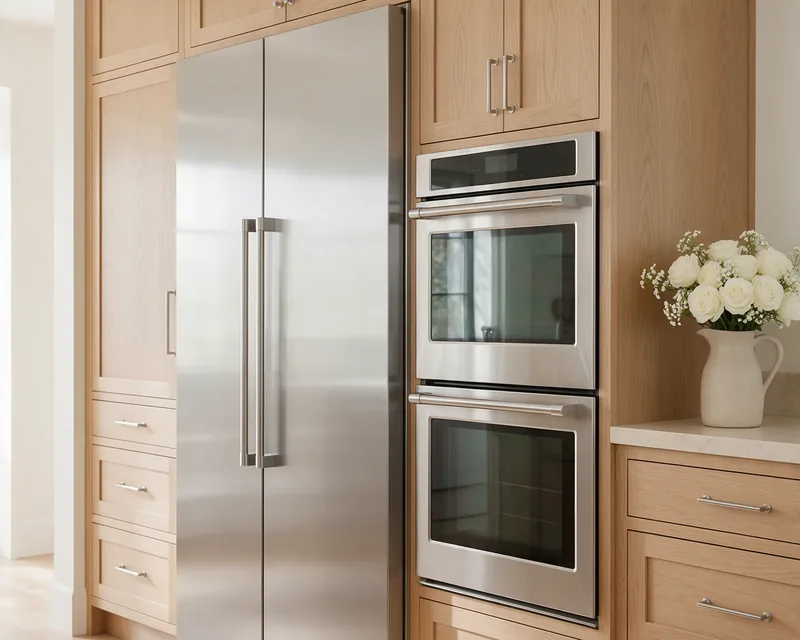
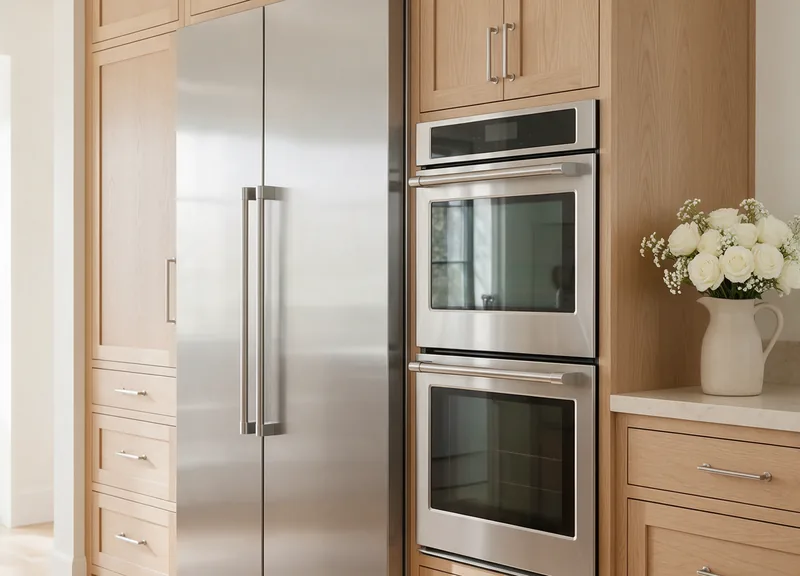
Home tiles: 25:18 photos, 10% shorter again

diff --git a/vibes/soul/sections/category-carousel/index.tsx b/vibes/soul/sections/category-carousel/index.tsx
@@ -75,7 +75,7 @@ export function CategoryCarousel({
                 className="group flex h-full flex-col overflow-hidden rounded-3xl border border-contrast-100 bg-white transition-[transform,box-shadow] duration-300 ease-out hover:-translate-y-1 hover:shadow-[0_24px_48px_-28px_rgb(0_0_0/0.3)] focus-visible:outline-0 focus-visible:ring-2 focus-visible:ring-primary"
                 href={category.href}
               >
-                <div className="relative aspect-[5/4] overflow-hidden bg-contrast-100">
+                <div className="relative aspect-[25/18] overflow-hidden bg-contrast-100">
                   {category.image ? (
                     <Image
                       alt={category.image.alt}
